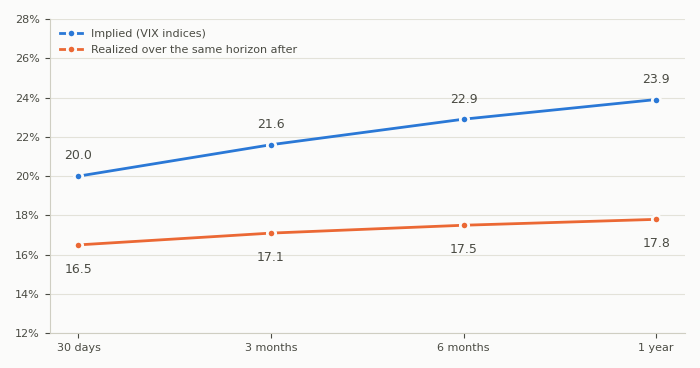
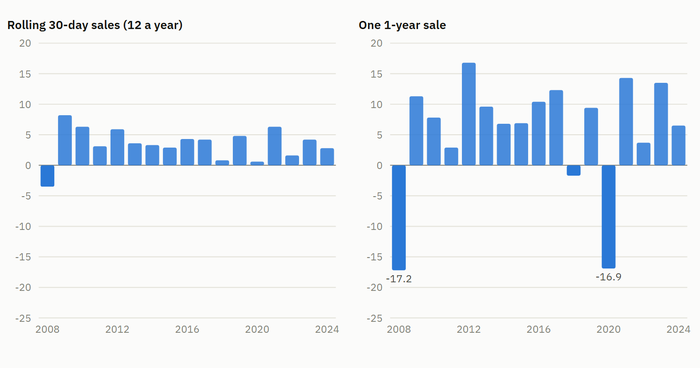
Site update

diff --git a/research/index.html b/research/index.html
@@ -76,7 +76,7 @@
       <h2>Strangle defense: what happens after one strike is touched</h2>
       <p>Short strangles on six ETFs since 1993: after a touch the direction stays about as random as usual, but the moves get larger, and the rolled strike needs a faster volatility estimate. Part 1 of 2.</p>
       </div>
-      <img src="/research/img/strangle-after-a-touch-thumb.png" width="700" height="368" alt="How often a rolled strangle strike was touched again, relative to normal, when rolled with a slow and with a fast volatility estimate, by distance.">
+      <img src="/research/img/strangle-after-a-touch-thumb.png" width="700" height="368" alt="Share of touched strangle strikes that finished in the money, calls and puts, against the normal share, by distance from 0.5 to 2 standard deviations.">
     </a>
 
     <a class="post" href="/research/vix-term-structure.html">
@@ -85,7 +85,7 @@
       <h2>VIX term structure vs realized volatility: how much of the slope was premium</h2>
       <p>Since 2008, one-year S&amp;P 500 options priced 3.9 points more volatility than 30-day ones, while realized volatility was only 1.4 points higher. By term, year, side and in stress.</p>
       </div>
-      <img src="/research/img/vix-term-structure-thumb.png" width="700" height="368" alt="S&amp;P 500 implied volatility at 30 days, 3, 6 and 12 months against the realized volatility over the same horizon after, 2008 to 2025.">
+      <img src="/research/img/vix-term-structure-thumb.png" width="700" height="368" alt="Volatility points kept per year by rolling 30-day sales against one one-year sale, 2008 to 2024: steady small gains against large swings with losses in 2008 and 2020.">
     </a>
 
     <a class="post" href="/research/probability-of-touch.html">
